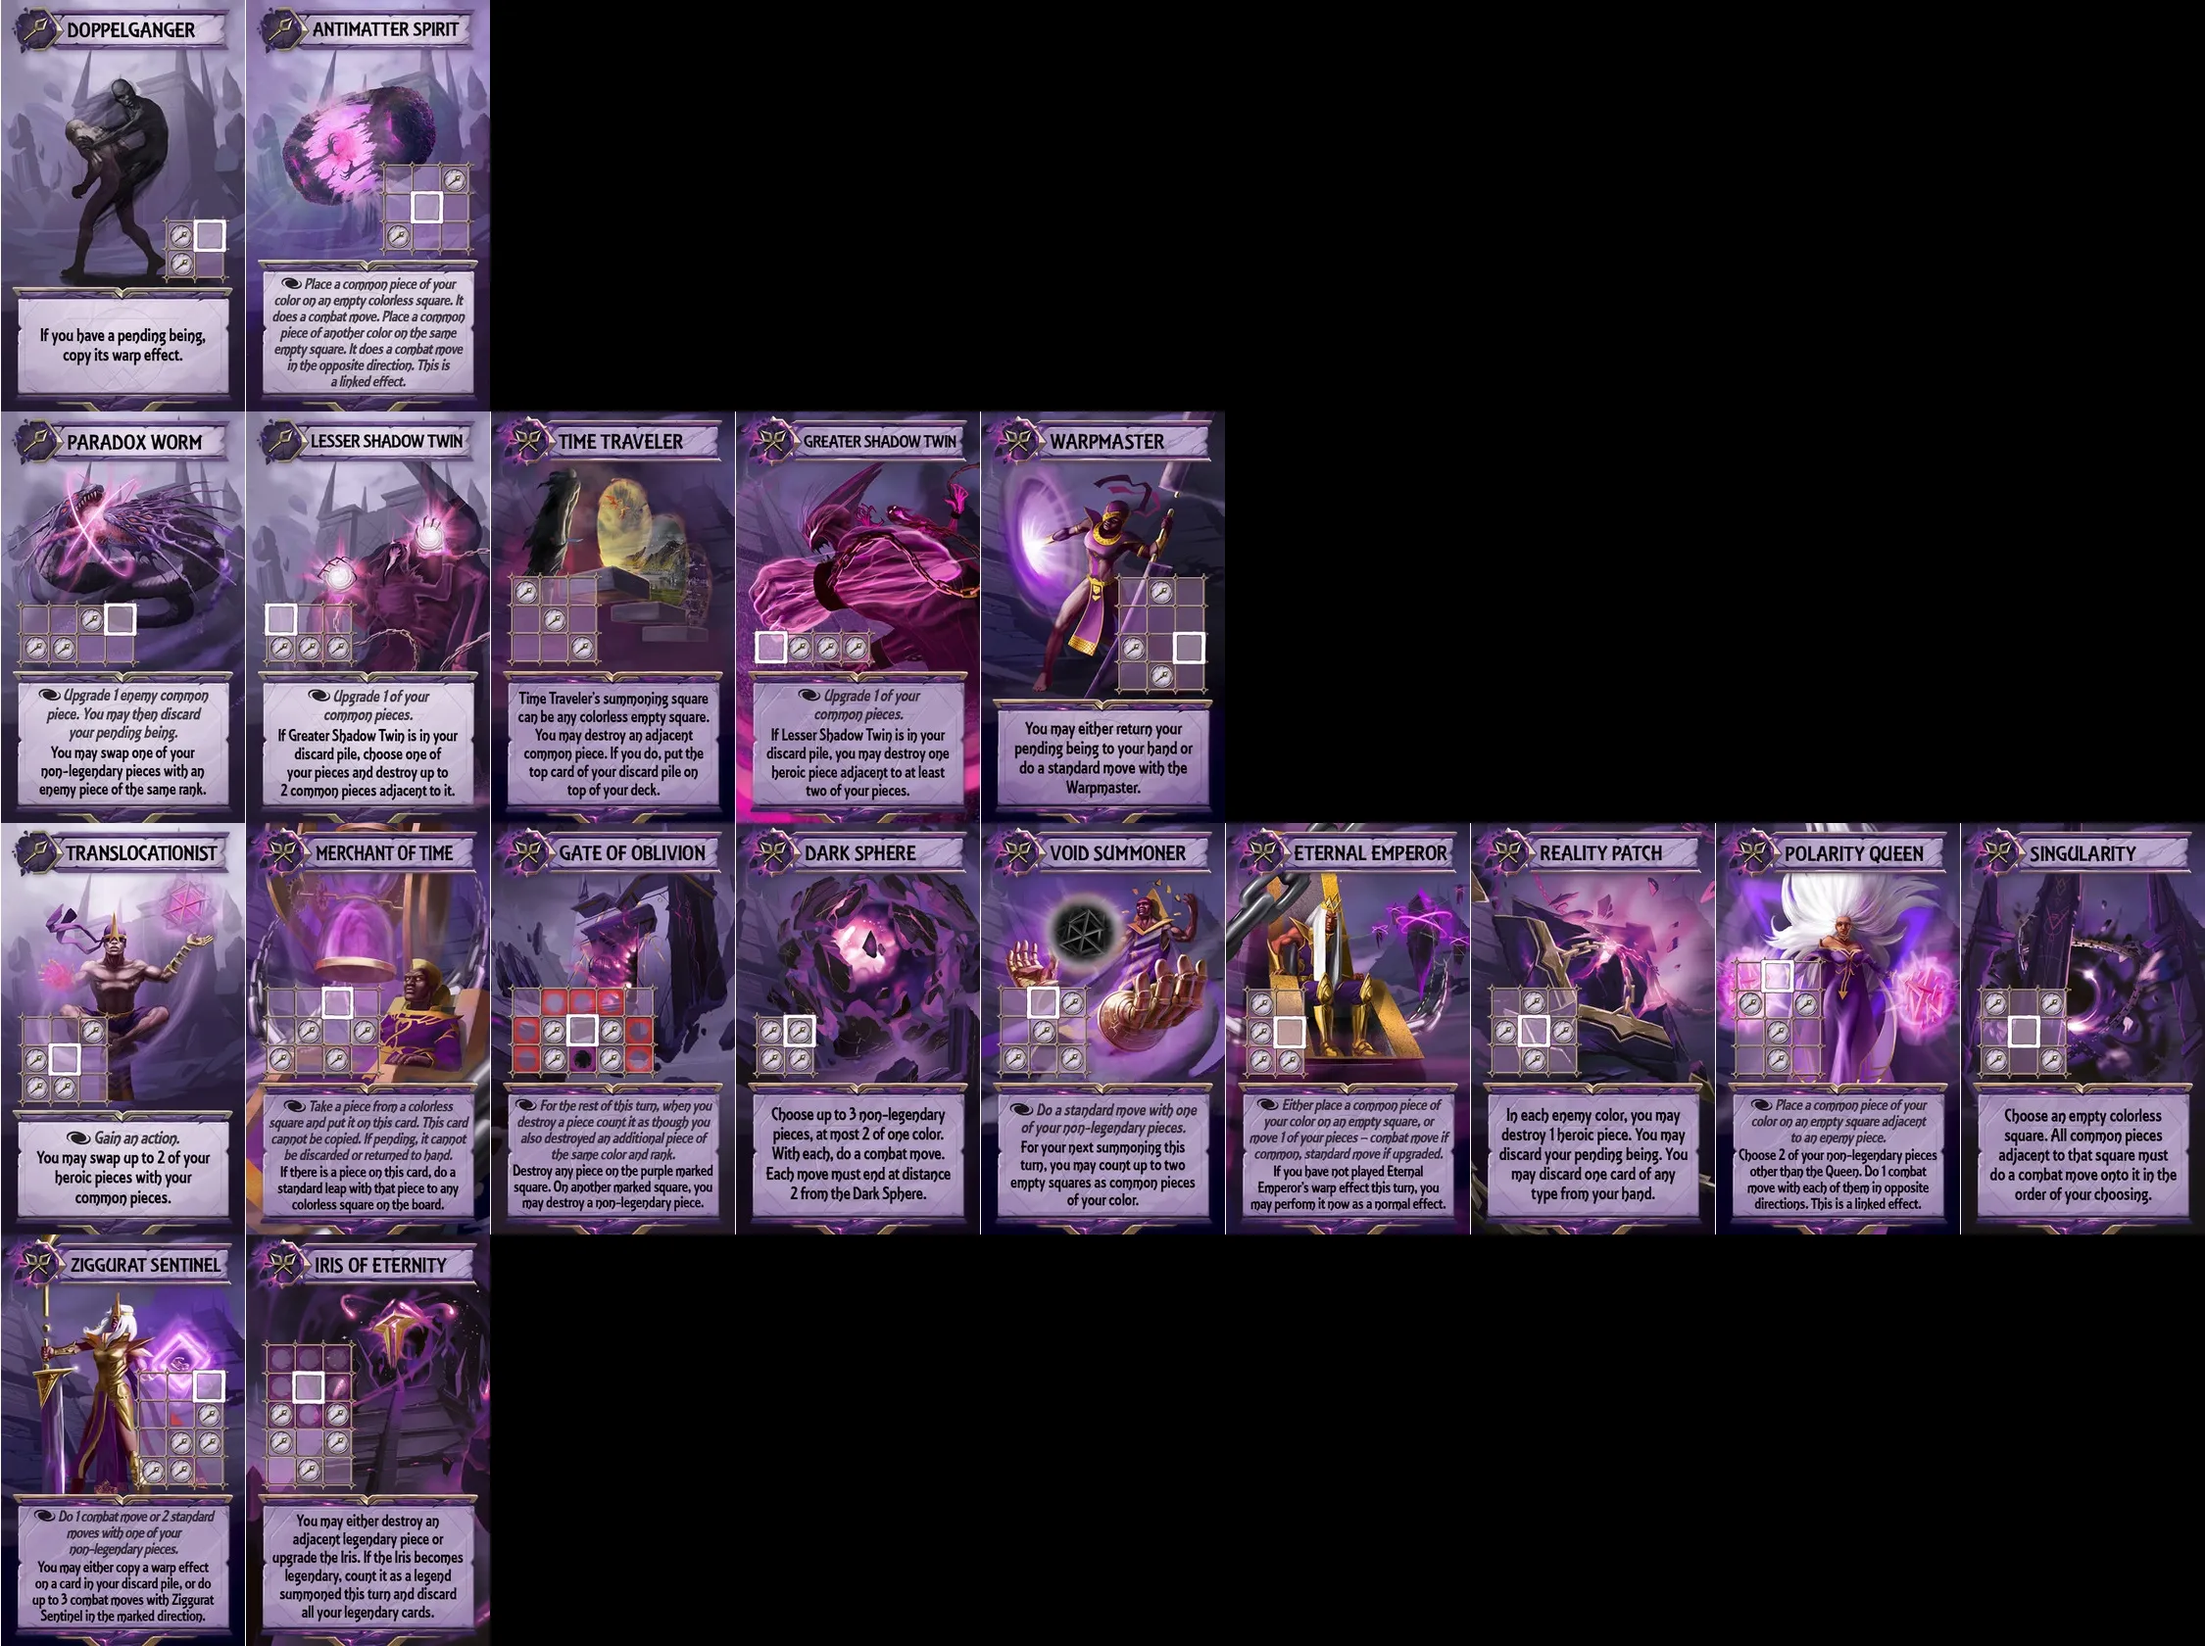
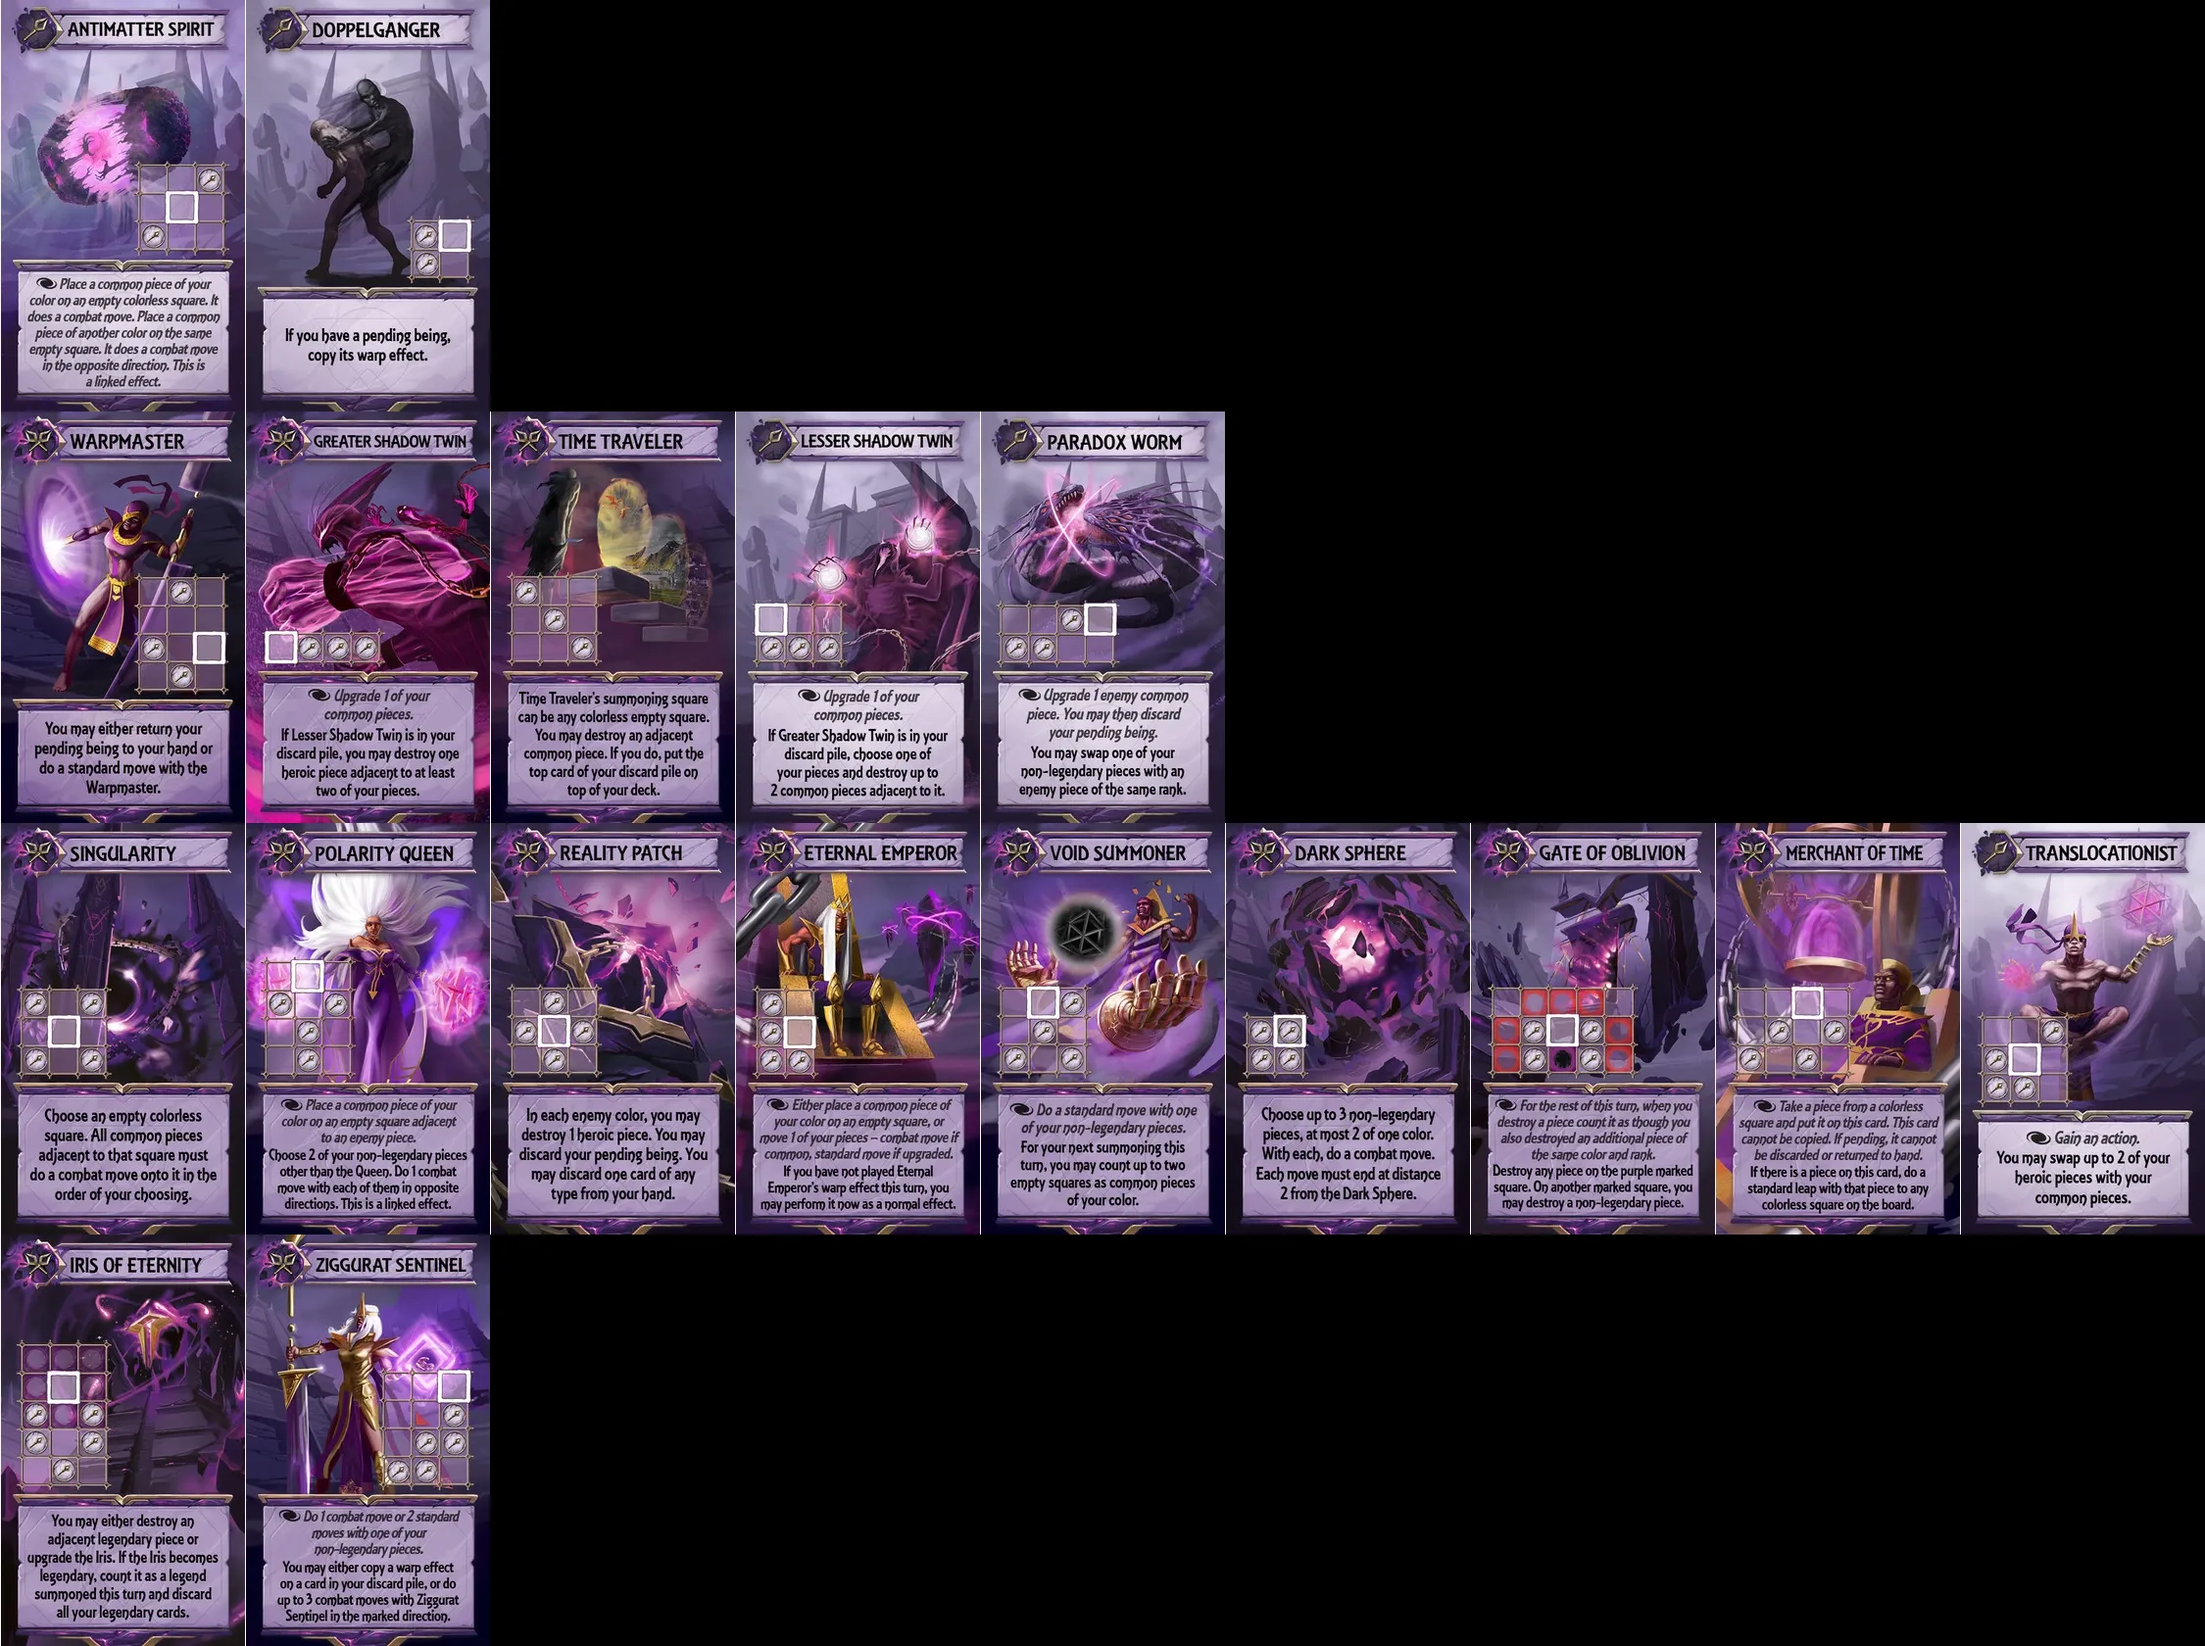
add all faction ranked pictures functions

diff --git a/imageManager.py b/imageManager.py
@@ -7,6 +7,7 @@ import typing as t
 import utils
 from functools import reduce
 from metadataManager import MetadataManager
+from collections import defaultdict
 
 
 logger = logging.getLogger()
@@ -76,3 +77,23 @@ class ImageManager:
     def create_all_singles():
         for card_type in constants.card_types_all:
             ImageManager.create_singles_for_card_type(card_type)
+
+    @staticmethod
+    def create_ranked_picture_for_card_type(card_type):
+        all_type_cards = ImageManager.create_all_cards_for(card_type)
+        min_level = reduce(lambda a, b: min(a, b), map(lambda card: card.common_cost, all_type_cards))
+        max_level = reduce(lambda a, b: max(a, b), map(lambda card: card.common_cost, all_type_cards))
+
+        cost_to_cards = defaultdict(list)
+        for card in all_type_cards:
+            cost_to_cards[card.common_cost].append(card)
+
+        image_rows = [reduce(ImageManager.concat_images_h, map(lambda card: card.pilImage, cost_to_cards[cost]))
+                      for cost in range(min_level, max_level+1)]
+        ranked_image = reduce(ImageManager.concat_images_v, image_rows)
+        ranked_image.save(f'{constants.ranked_pictures_path}/{card_type}_ranked.webp')
+
+    @staticmethod
+    def create_ranked_pictures():
+        for card_type in constants.factions_imperial_combined:
+            ImageManager.create_ranked_picture_for_card_type(card_type)

diff --git a/main2.py b/main2.py
@@ -3,6 +3,6 @@ from models import Faction, NonFactionType
 
 
 if __name__ == '__main__':
-    ImageManager.create_singles_for_card_type(NonFactionType.FLARE.value)
+    ImageManager.create_ranked_pictures()
     # all_faction_images = ImageManager.create_all_cards_for(NonFactionType.TASK.value)
     # print(all_faction_images)
